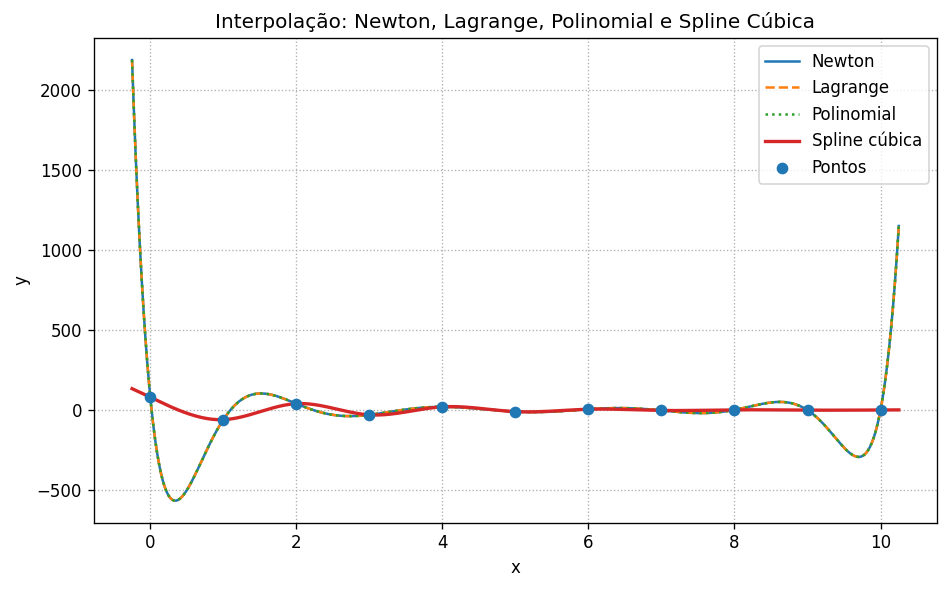
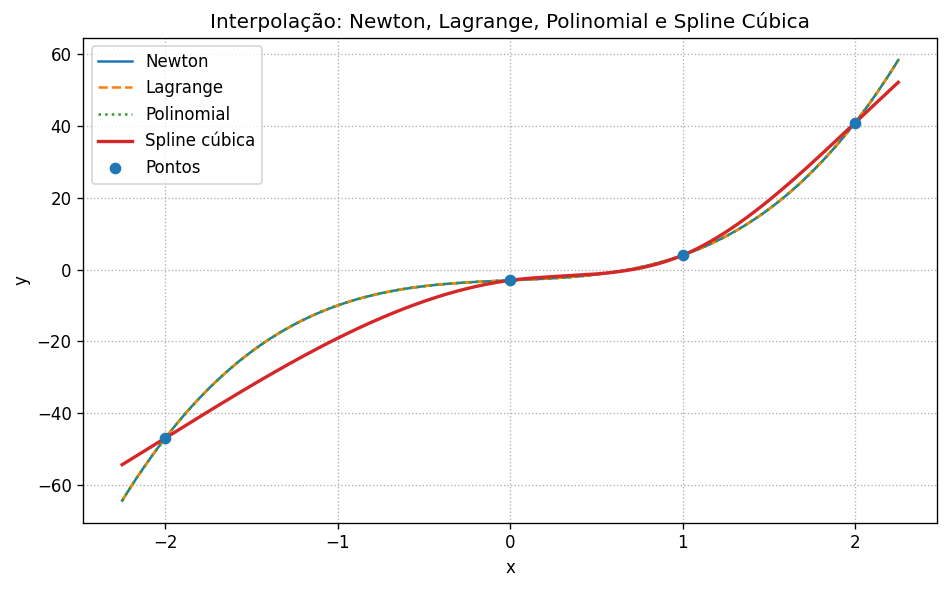
atividade9

diff --git a/semana-9/main.py b/semana-9/main.py
@@ -101,7 +101,7 @@ def main():
     for xi, n, l, p, s in zip(xr, yn, yl, yp, ys):
         print(f"x = {xi:>4}:  N={n: .6f} | L={l: .6f} | P={p: .6f} | S={s: .6f}")
 
-    plot(x, y, 1)
+    plot(x, y, 2)
 
         # Atividade 3
     print("-- Atividade 3 --")
@@ -135,7 +135,7 @@ def main():
     for xi, n, l, p, s in zip(xr, yn, yl, yp, ys):
         print(f"x = {xi:>4}:  N={n: .6f} | L={l: .6f} | P={p: .6f} | S={s: .6f}")
 
-    plot(x, y, 1)
+    plot(x, y, 3)
 
     print("-- Questao 2 --")
     x = np.array(
@@ -167,7 +167,7 @@ def main():
     for xi, n, l, p, s in zip(xr, yn, yl, yp, ys):
         print(f"x = {xi:>4}:  N={n: .6f} | L={l: .6f} | P={p: .6f} | S={s: .6f}")
 
-    plot(x, y, 1)
+    plot(x, y, 4)
 
 
 
